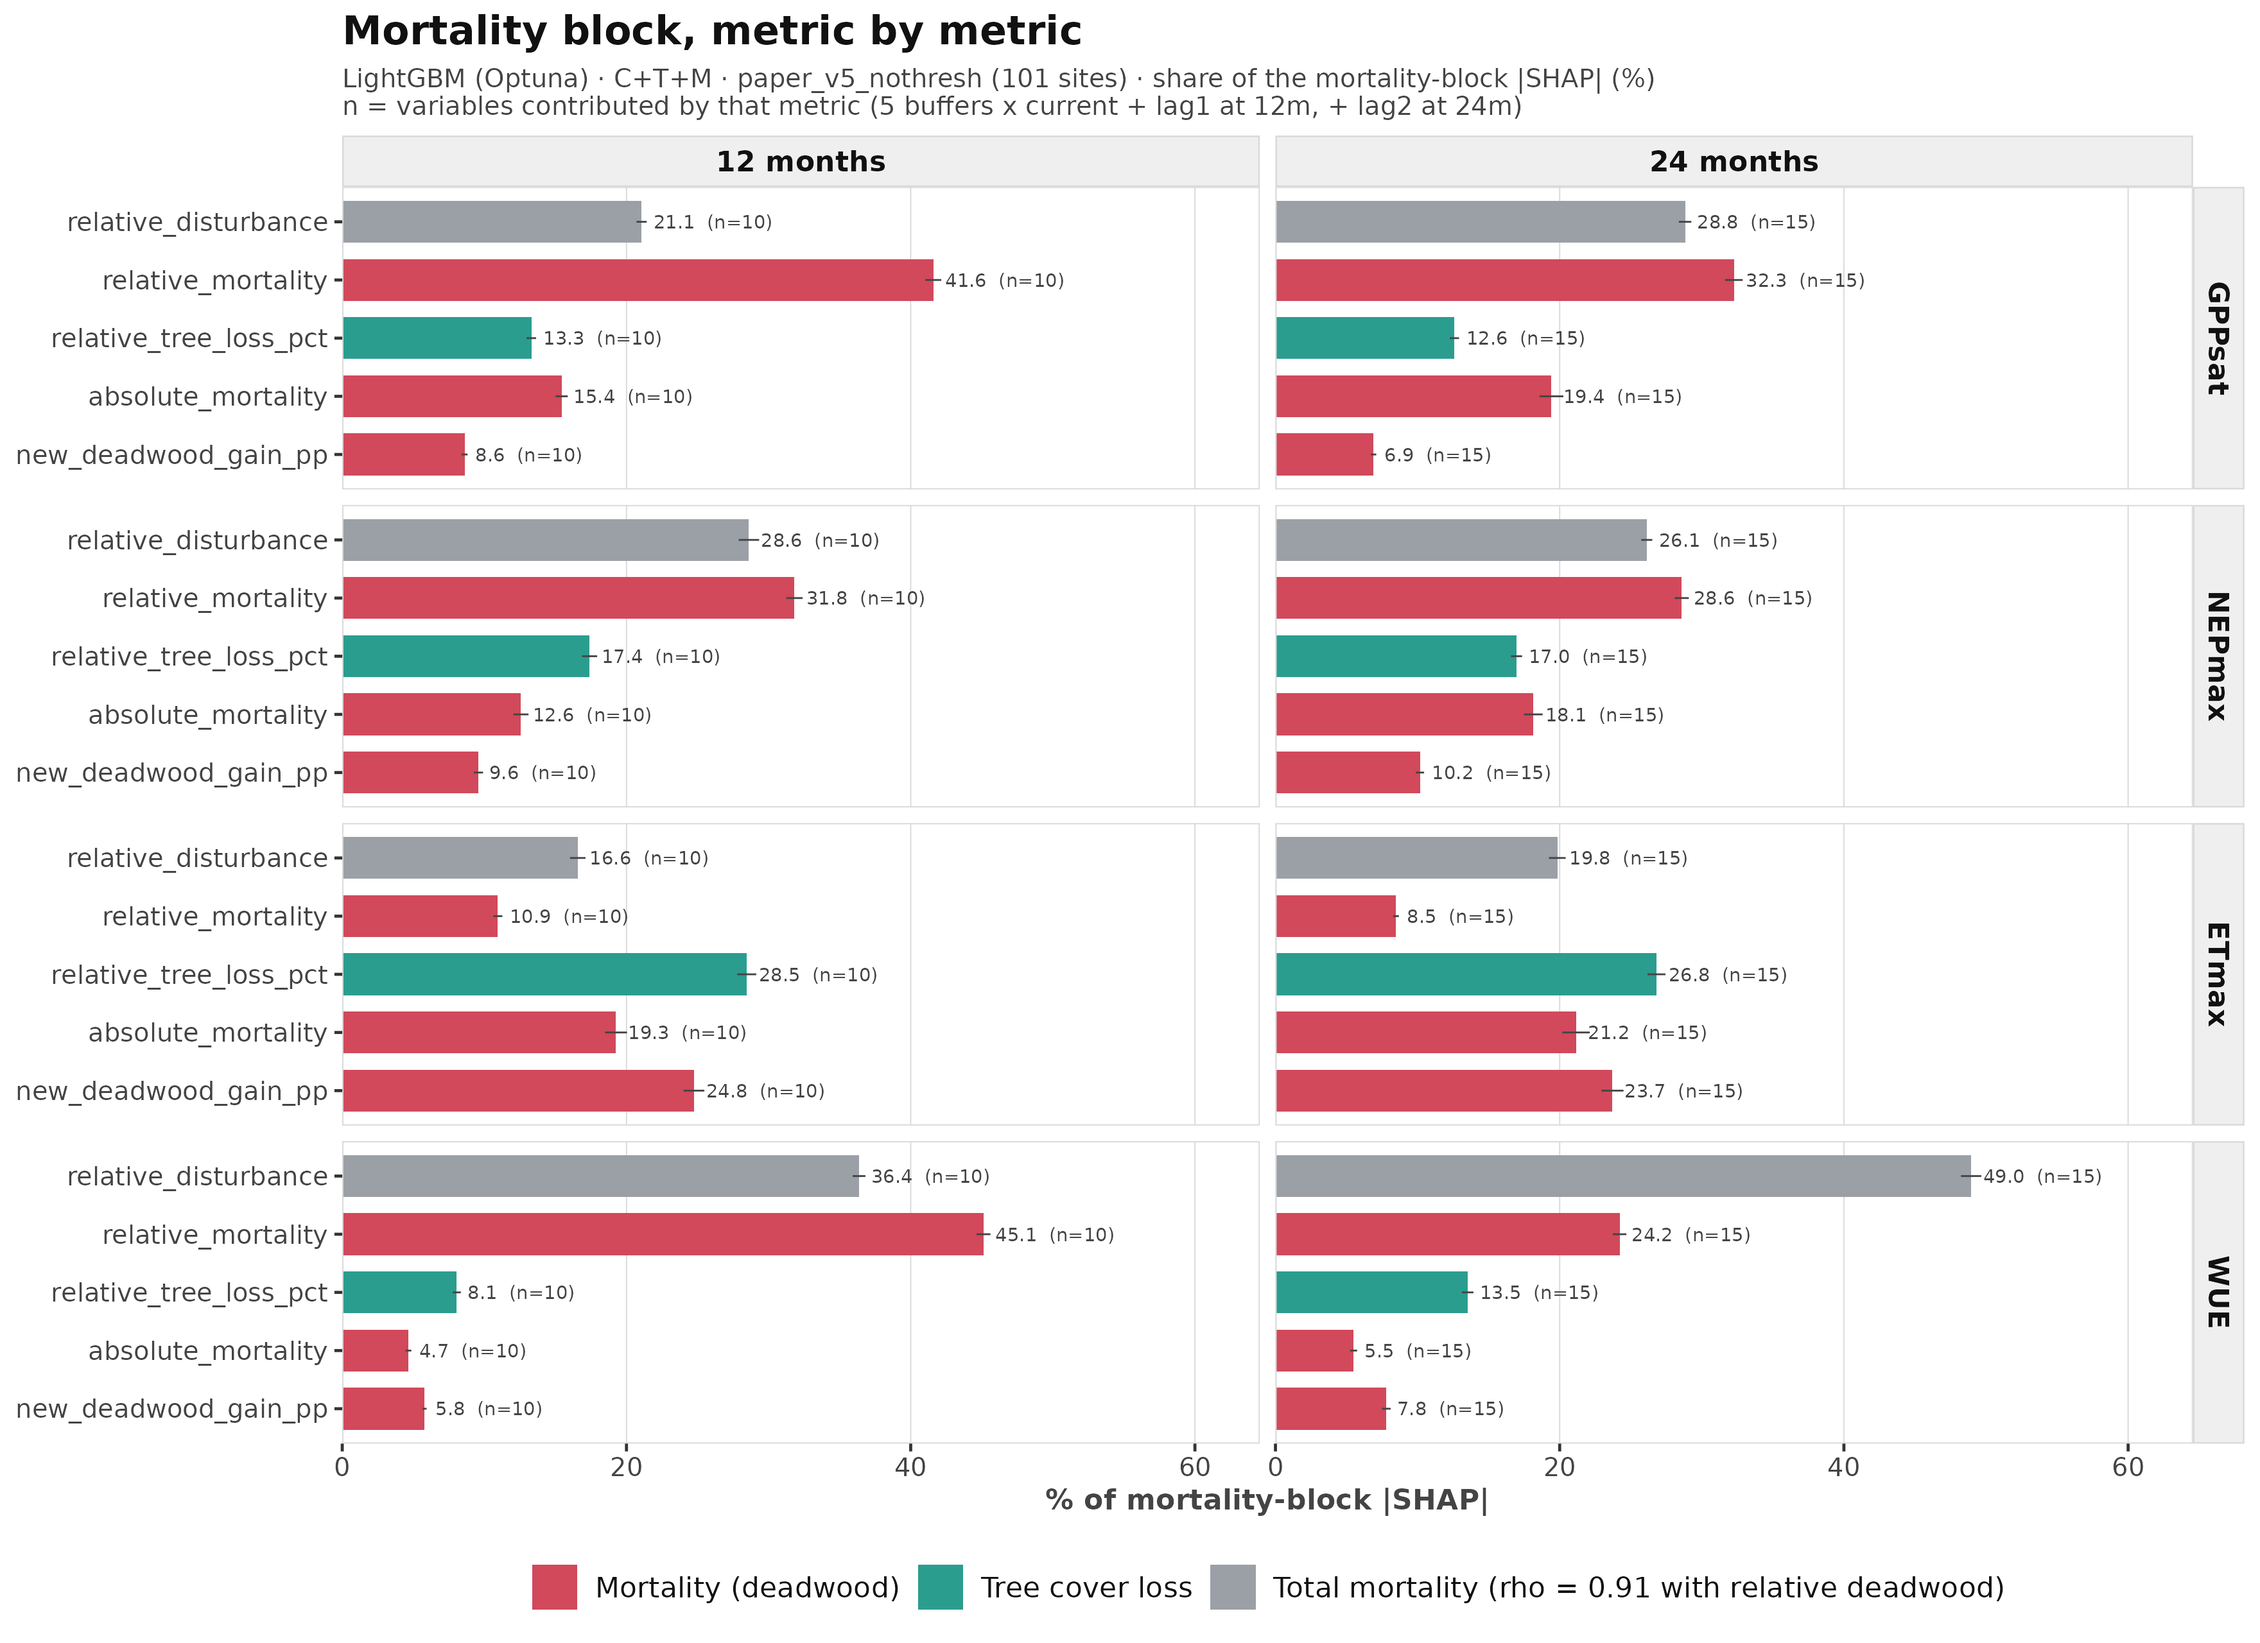
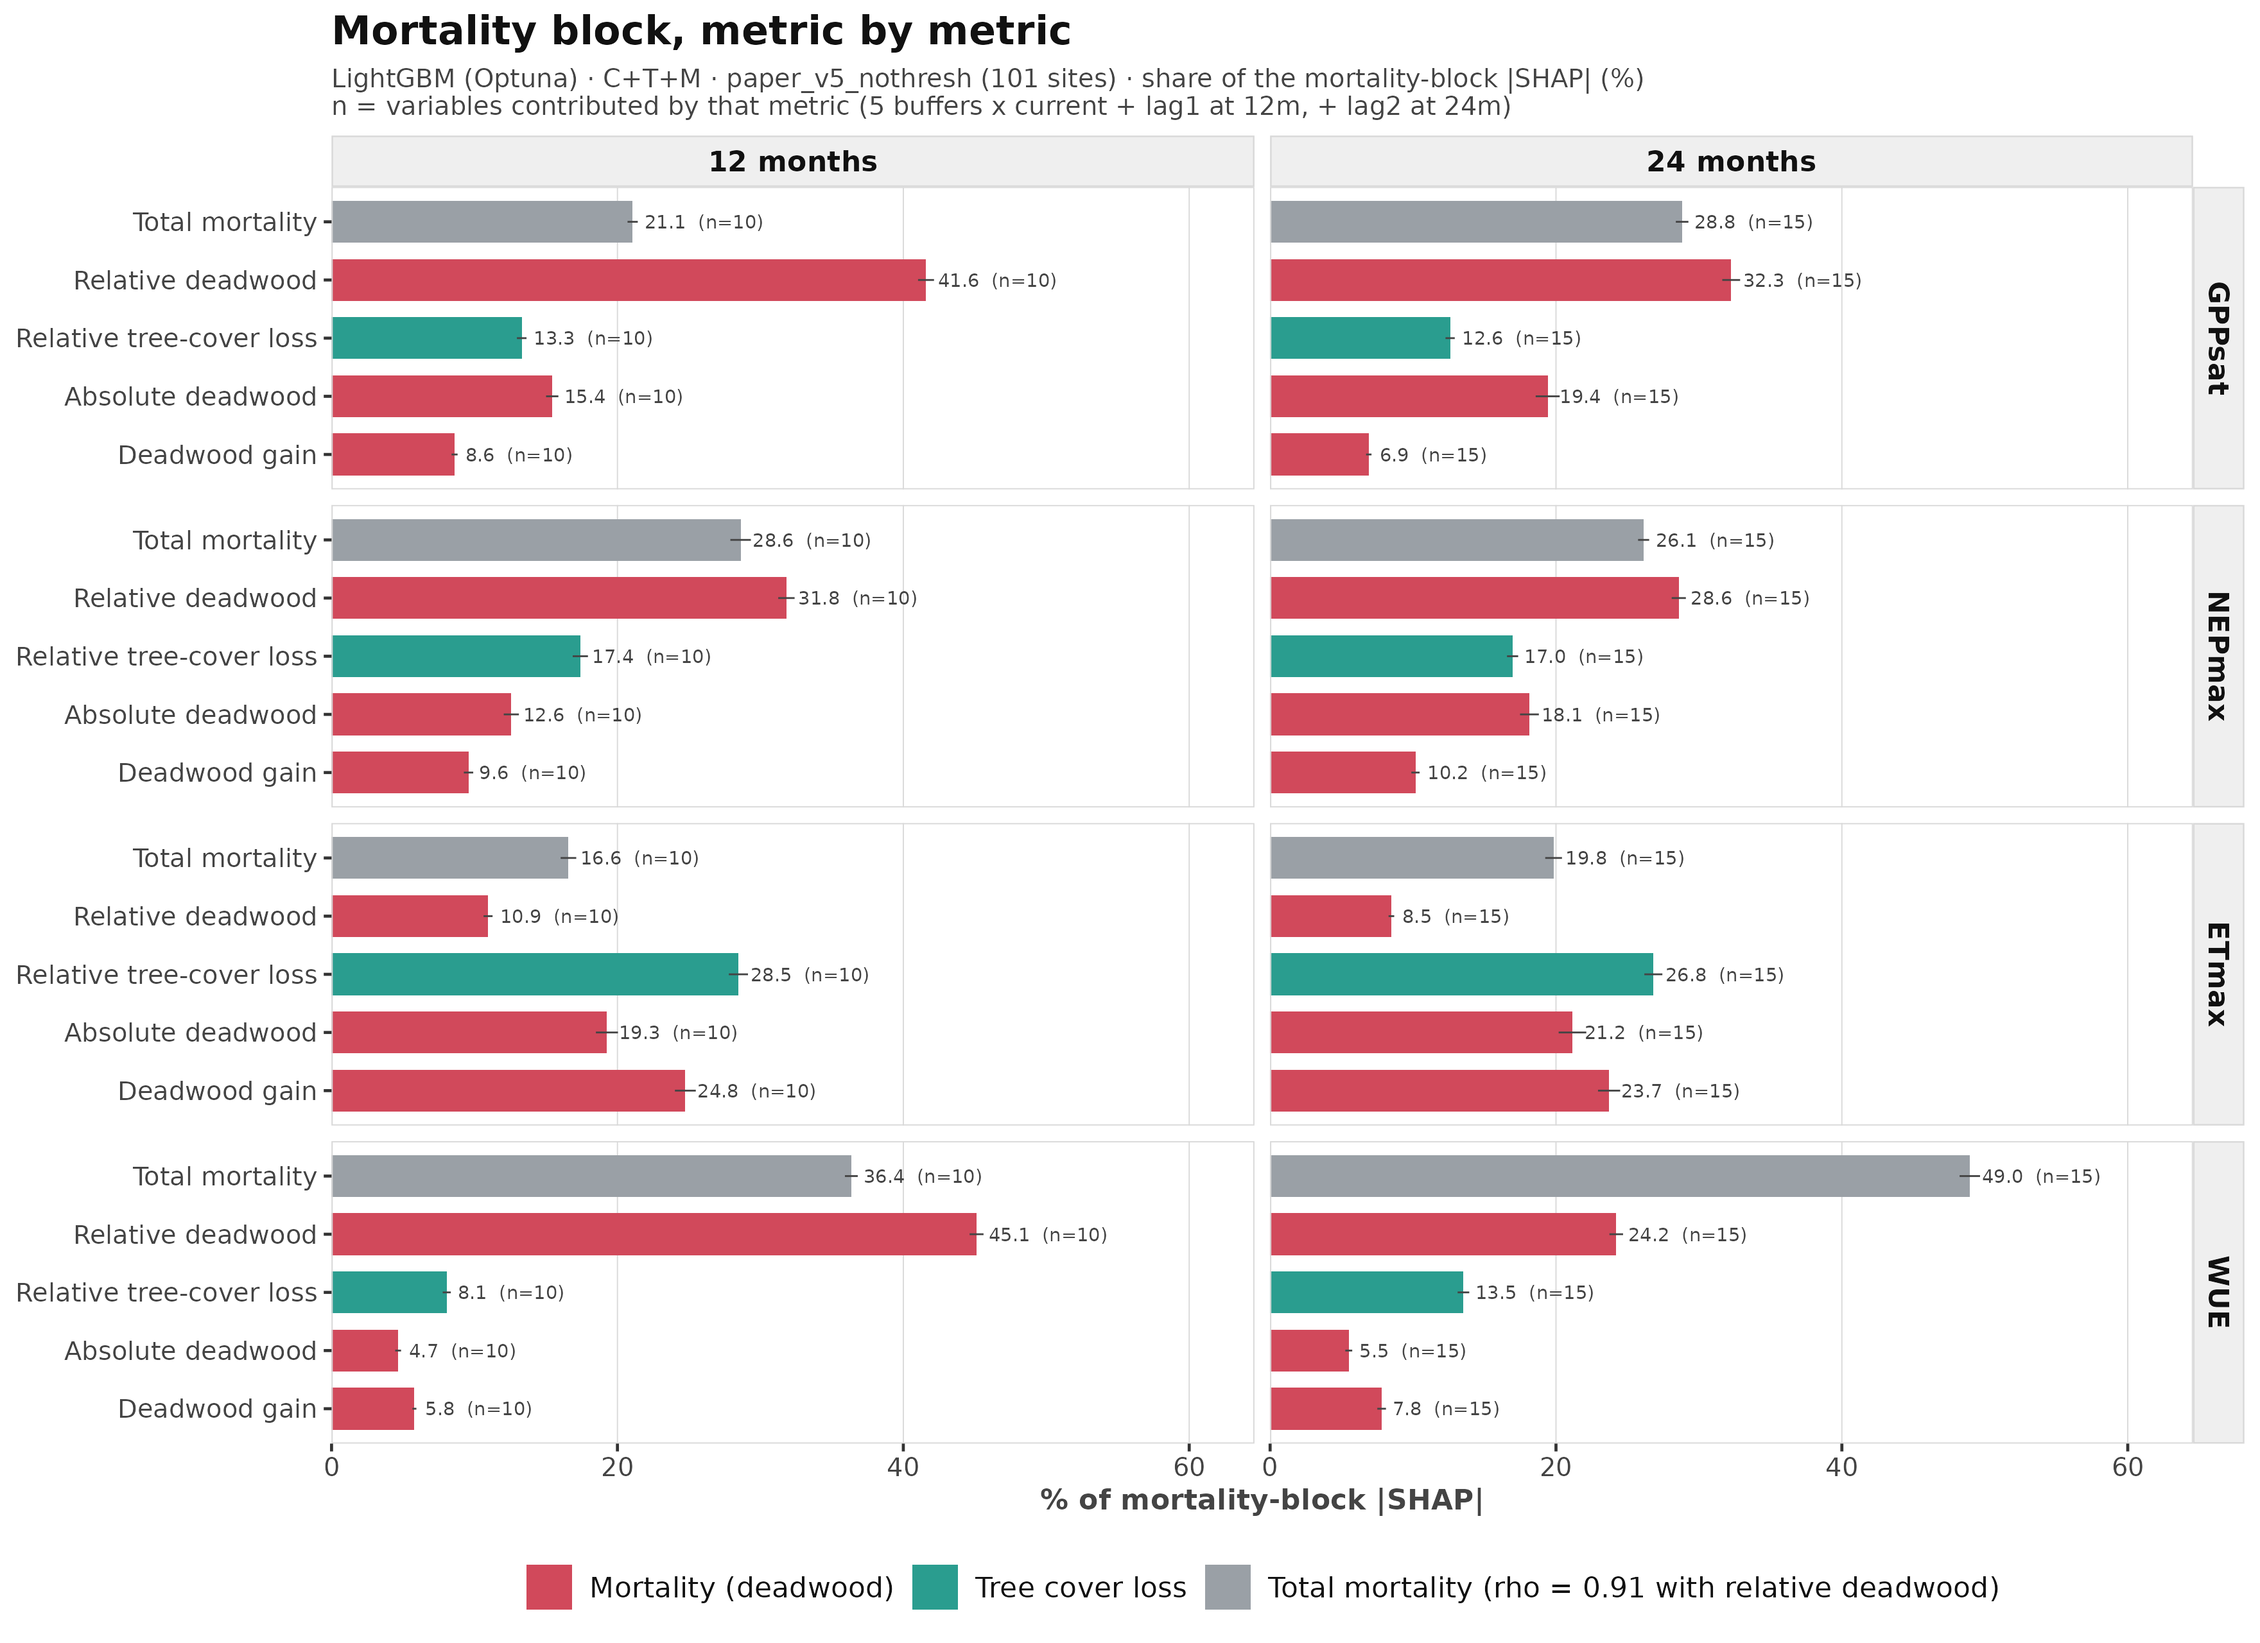
Mortality composition by metric: AutoGluon added, paper metric names; V5 section in HTML

diff --git a/data/flux/scripts/paper_v41/35_build_report_paper.py b/data/flux/scripts/paper_v41/35_build_report_paper.py
@@ -255,6 +255,16 @@ sections.append(("igbp", "6. Ecosystem type and tree cover (Fig 5)",
                             "".join(fig(k, f"fig5_igbp_board_{w}_{L}.png", f"{DS[k]['label']}: {L}, {w}.") for L in ("XGB", "LGB") for w in ("12m", "24m") if not (L == "XGB" and w == "24m")))
                         + fig(k, "mortality_split/mortality_composition_concept_LGB.png", f"{DS[k]['label']}: what kind of mortality information the model uses (LightGBM)."))))
 
+# mortality block split by metric, V5 only (2026-10-08): AutoGluon first, then XGBoost and LightGBM
+sections.append(("msplit", "7. Mortality block, metric by metric (V5)",
+                 "<p>Share of the mortality-block |SHAP| per metric (C+T+M, V5 without thresholds, mean over the 101 sites, "
+                 "bars ± SE). Grey = total mortality, red = deadwood metrics, green = tree-cover loss. The metrics are strongly "
+                 "correlated (total mortality vs relative deadwood ρ = 0.91), so SHAP shares show which variables the model "
+                 "uses, not what each metric adds on its own. AutoGluon SHAP is permutation-based: compare shares, not magnitudes.</p>"
+                 + fig("v5", "mortality_split/mortality_composition_family_AG.png", "V5: mortality block by metric, AutoGluon.")
+                 + fig("v5", "mortality_split/mortality_composition_family_XGB.png", "V5: mortality block by metric, XGBoost.")
+                 + fig("v5", "mortality_split/mortality_composition_family_LGB.png", "V5: mortality block by metric, LightGBM.")))
+
 # V4.1 vs V5 comparison (always visible)
 C = f"{ROOT}/plots/paper_v5{SFX}/comparison_v41_v5"
 agree = pd.read_csv(f"{C}/1_metric_agreement.csv", index_col=0).drop(index="absolute deadwood", errors="ignore").round(3)
